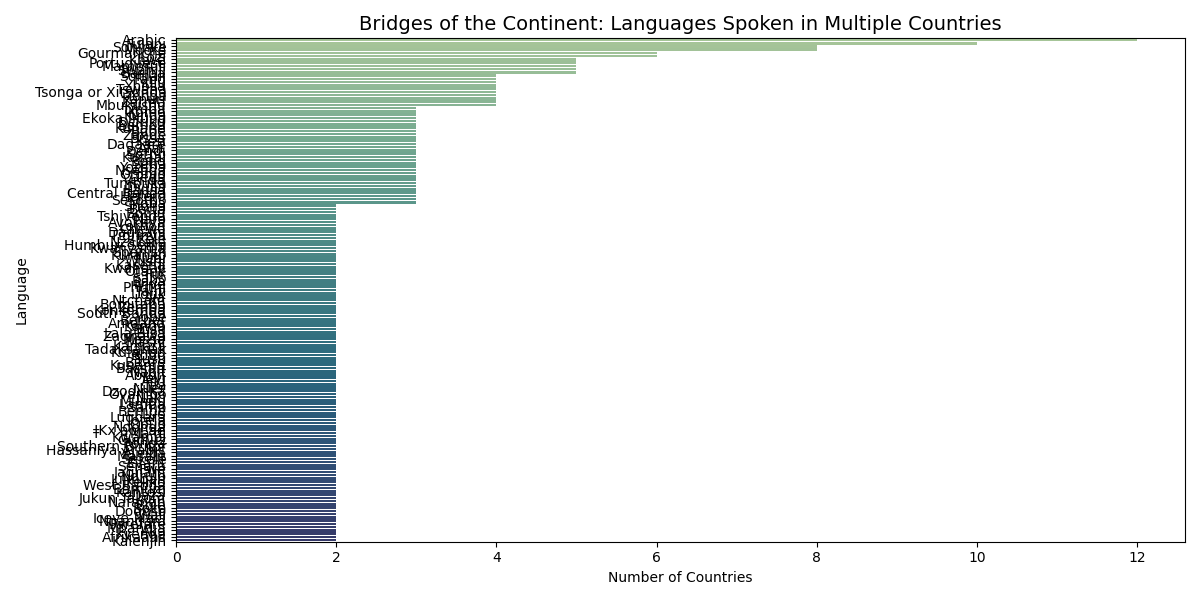
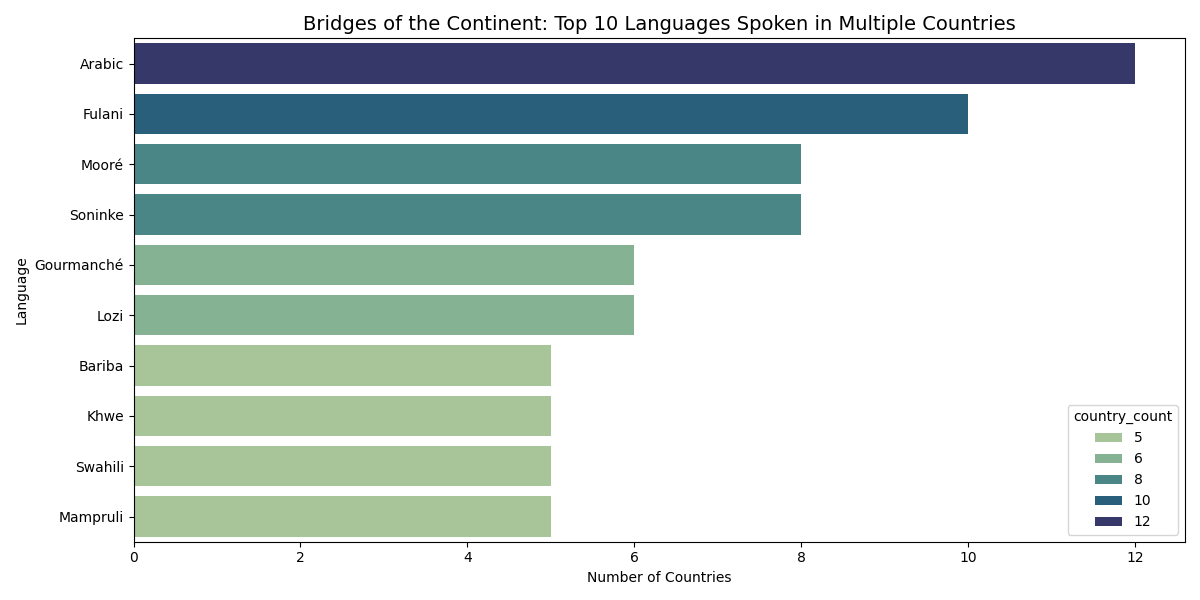
clean 20260113

diff --git a/src/2026/20260113/main.py b/src/2026/20260113/main.py
@@ -35,23 +35,23 @@ font_bold = load_font(
     "https://github.com/google/fonts/raw/main/ofl/spacemono/SpaceMono-Bold.ttf"
 )
 
-print(df.head())
-print(len(df))
-print(df.unique("family"))
+# print(df.head())
+# print(len(df))
+# print(df.unique("family"))
 
-# # --- 1. Top 10 Most Diverse Countries ---
+# # Top 10 Most Diverse Countries
 # plt.figure(figsize=(10, 6))
 # top_countries = (
-#     df.groupby("country")["language"].count().sort_values(ascending=False).head(10)
+#     df.group_by("country")["language"].count().sort_values(ascending=False).head(10)
 # )
 # sns.barplot(x=top_countries.values, y=top_countries.index, palette="magma")
 # plt.title("The Polyglot Leaderboard: Top 10 Countries by Language Count")
 # plt.xlabel("Number of Unique Languages")
 # plt.show()
 
-# # --- 2. Language Family Speaker Distribution ---
+# # Language Family Speaker Distribution
 # plt.figure(figsize=(8, 8))
-# family_data = df.groupby("family")["native_speakers"].sum().sort_values(ascending=False)
+# family_data = df.group_by("family")["native_speakers"].sum().sort_values(ascending=False)
 # plt.pie(
 #     family_data,
 #     labels=family_data.index,
@@ -61,13 +61,13 @@ print(df.unique("family"))
 # plt.title("Speaker Share by Language Family")
 # plt.show()
 
-# # --- 3. Identifying Cross-Border Languages ---
-# cross_border = df.groupby("language")["country"].nunique()
+# # Identifying Cross-Border Languages
+# cross_border = df.group_by("language")["country"].n_unique()
 # multi_nation = cross_border[cross_border > 1].sort_values(ascending=False).head(10)
 # print("Top Cross-Border Languages:\n", multi_nation)
 
 
-# --- Complex Logic 1: Speaker Density per Family ---
+# Speaker Density per Family
 # Density = Total Native Speakers / Number of Unique Languages in that family
 density_df = (
     df.group_by("family")
@@ -85,7 +85,7 @@ density_df = (
     .sort("speaker_density", descending=True)
 )
 
-# --- Complex Logic 2: Cross-border Reach ---
+# Cross-border Reach
 # Which languages unite the most countries?
 reach_df = (
     df.group_by("language")
@@ -94,7 +94,7 @@ reach_df = (
     .sort("country_count", descending=True)
 )
 
-# --- Complex Logic 3: Linguistic Concentration (Entropy-like) ---
+# Linguistic Concentration (Entropy-like)
 # How concentrated are speakers within a country?
 country_concentration = (
     df.group_by("country")
@@ -112,7 +112,11 @@ country_concentration = (
 # Plot 1: Speaker Density per Family
 plt.figure(figsize=(12, 6))
 sns.barplot(
-    data=density_df.to_pandas(), x="speaker_density", y="family", palette="flare"
+    data=density_df.to_pandas(),
+    x="speaker_density",
+    hue="speaker_density",
+    y="family",
+    palette="flare",
 )
 plt.title(
     "Speaker Density: Which Language Families have the most 'Impact' per Language?",
@@ -125,23 +129,43 @@ plt.savefig("src/2026/20260113/speaker_density.png")
 
 # Plot 2: Cross-border Reach
 plt.figure(figsize=(12, 6))
-sns.barplot(data=reach_df.to_pandas(), x="country_count", y="language", palette="crest")
+sns.barplot(
+    data=reach_df.to_pandas().head(10),
+    x="country_count",
+    hue="country_count",
+    y="language",
+    palette="crest",
+)
 plt.title(
-    "Bridges of the Continent: Languages Spoken in Multiple Countries", fontsize=14
+    "Bridges of the Continent: Top 10 Languages Spoken in Multiple Countries",
+    fontsize=14,
 )
 plt.xlabel("Number of Countries")
 plt.ylabel("Language")
 plt.tight_layout()
 plt.savefig("src/2026/20260113/cross_border_reach.png")
 
-print("Analysis Complete.")
-print("Density Data Sample:")
-print(density_df.head())
-print("\nReach Data Sample:")
-print(reach_df.head())
+# Plot 3: Linguistic Concentration
+plt.figure(figsize=(12, 6))
+sns.scatterplot(
+    data=country_concentration.to_pandas(),
+    x="lang_count",
+    y="speaker_variance",
+    hue="lang_count",
+    size="lang_count",
+    palette="viridis",
+    sizes=(50, 500),
+    legend=False,
+)
+plt.title(
+    "Linguistic Concentration: Diversity vs. Speaker Variance by Country", fontsize=14
+)
+plt.xlabel("Number of Languages Spoken")
+plt.ylabel("Variance in Native Speakers")
+plt.tight_layout()
+plt.savefig("src/2026/20260113/linguistic_concentration.png")
 
-
-# 2. Complex Logic: Diversity of Language Families per Country
+# Diversity of Language Families per Country
 # We want to know how many distinct 'branches' of humanity are in one place.
 country_diversity = (
     df.group_by("country")
@@ -154,13 +178,12 @@ country_diversity = (
     .sort("family_diversity", descending=True)
 )
 
-# 3. Load Geographical Data
+# Load Geographical Data, To be downloaded separately
+# You can get the original 'naturalearth_lowres' data from https://www.naturalearthdata.com/downloads/110m-cultural-vectors/.
 world = gpd.read_file("data/ne_110m_admin_0_countries.shp")
-print(world.columns)
-print(world.head())
 africa = world[world["CONTINENT"] == "Africa"]
 
-# 4. Join Polars Data with Map Data
+# Join Polars Data with Map Data
 # We convert Polars to Pandas just for the merge with GeoPandas
 map_data = world.merge(
     country_diversity.to_pandas(), left_on="ADMIN", right_on="country", how="left"
@@ -168,10 +191,8 @@ map_data = world.merge(
 
 # 5. Plotting the Geographical Map
 fig, ax = plt.subplots(1, 1, figsize=(15, 10))
-
 # Plot missing data in light grey
 africa.plot(ax=ax, color="#eeeeee", edgecolor="#ffffff")
-
 # Plot the diversity index
 map_data.plot(
     column="family_diversity",
@@ -185,7 +206,6 @@ map_data.plot(
     edgecolor="white",
     linewidth=0.5,
 )
-
 ax.set_title(
     "The African Linguistic Mosaic: Deep Family Diversity by Country", fontsize=20
 )
